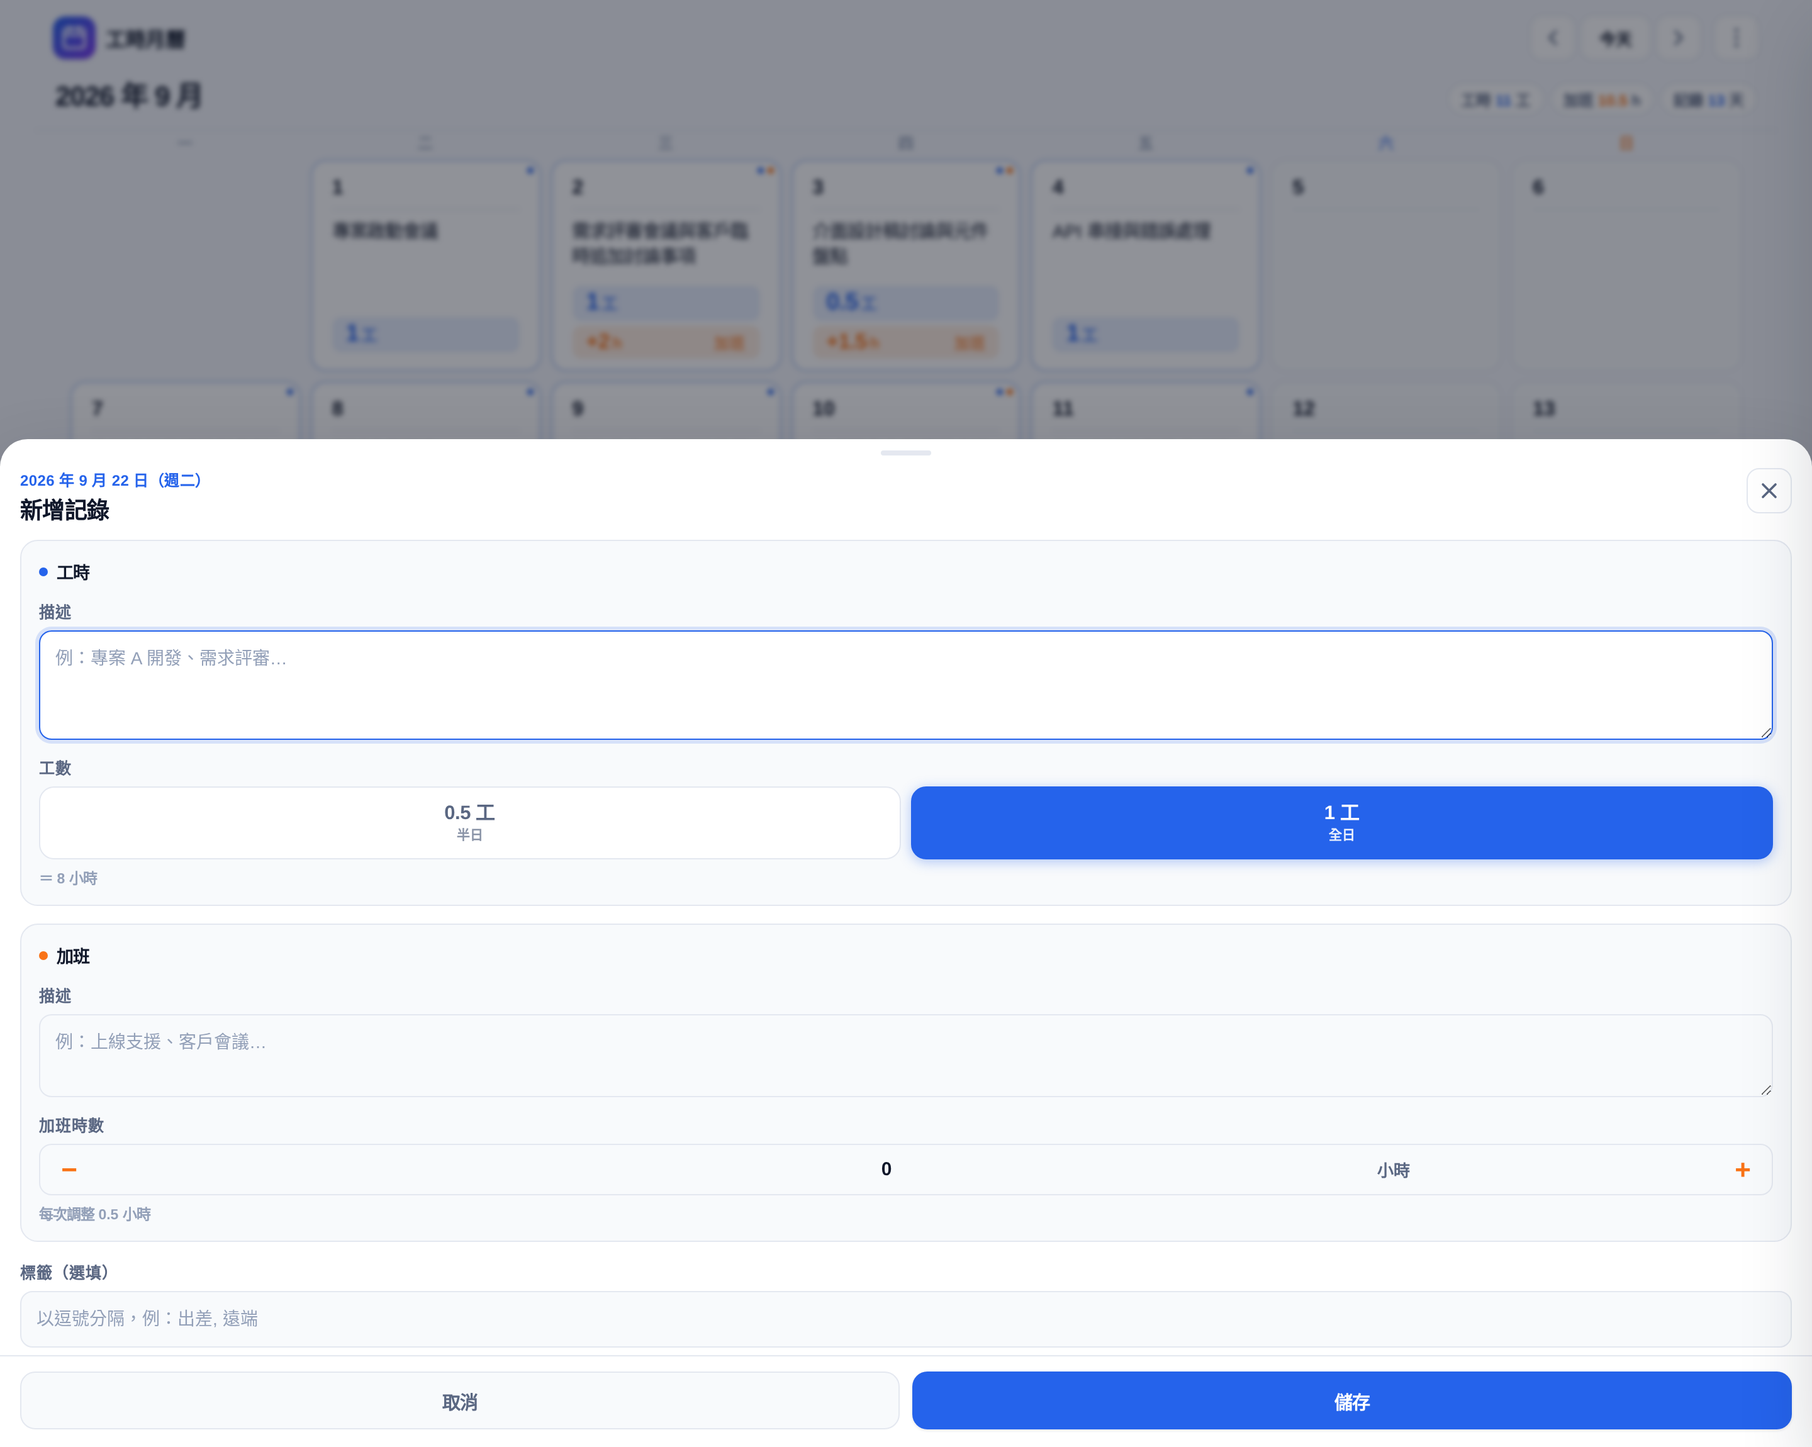
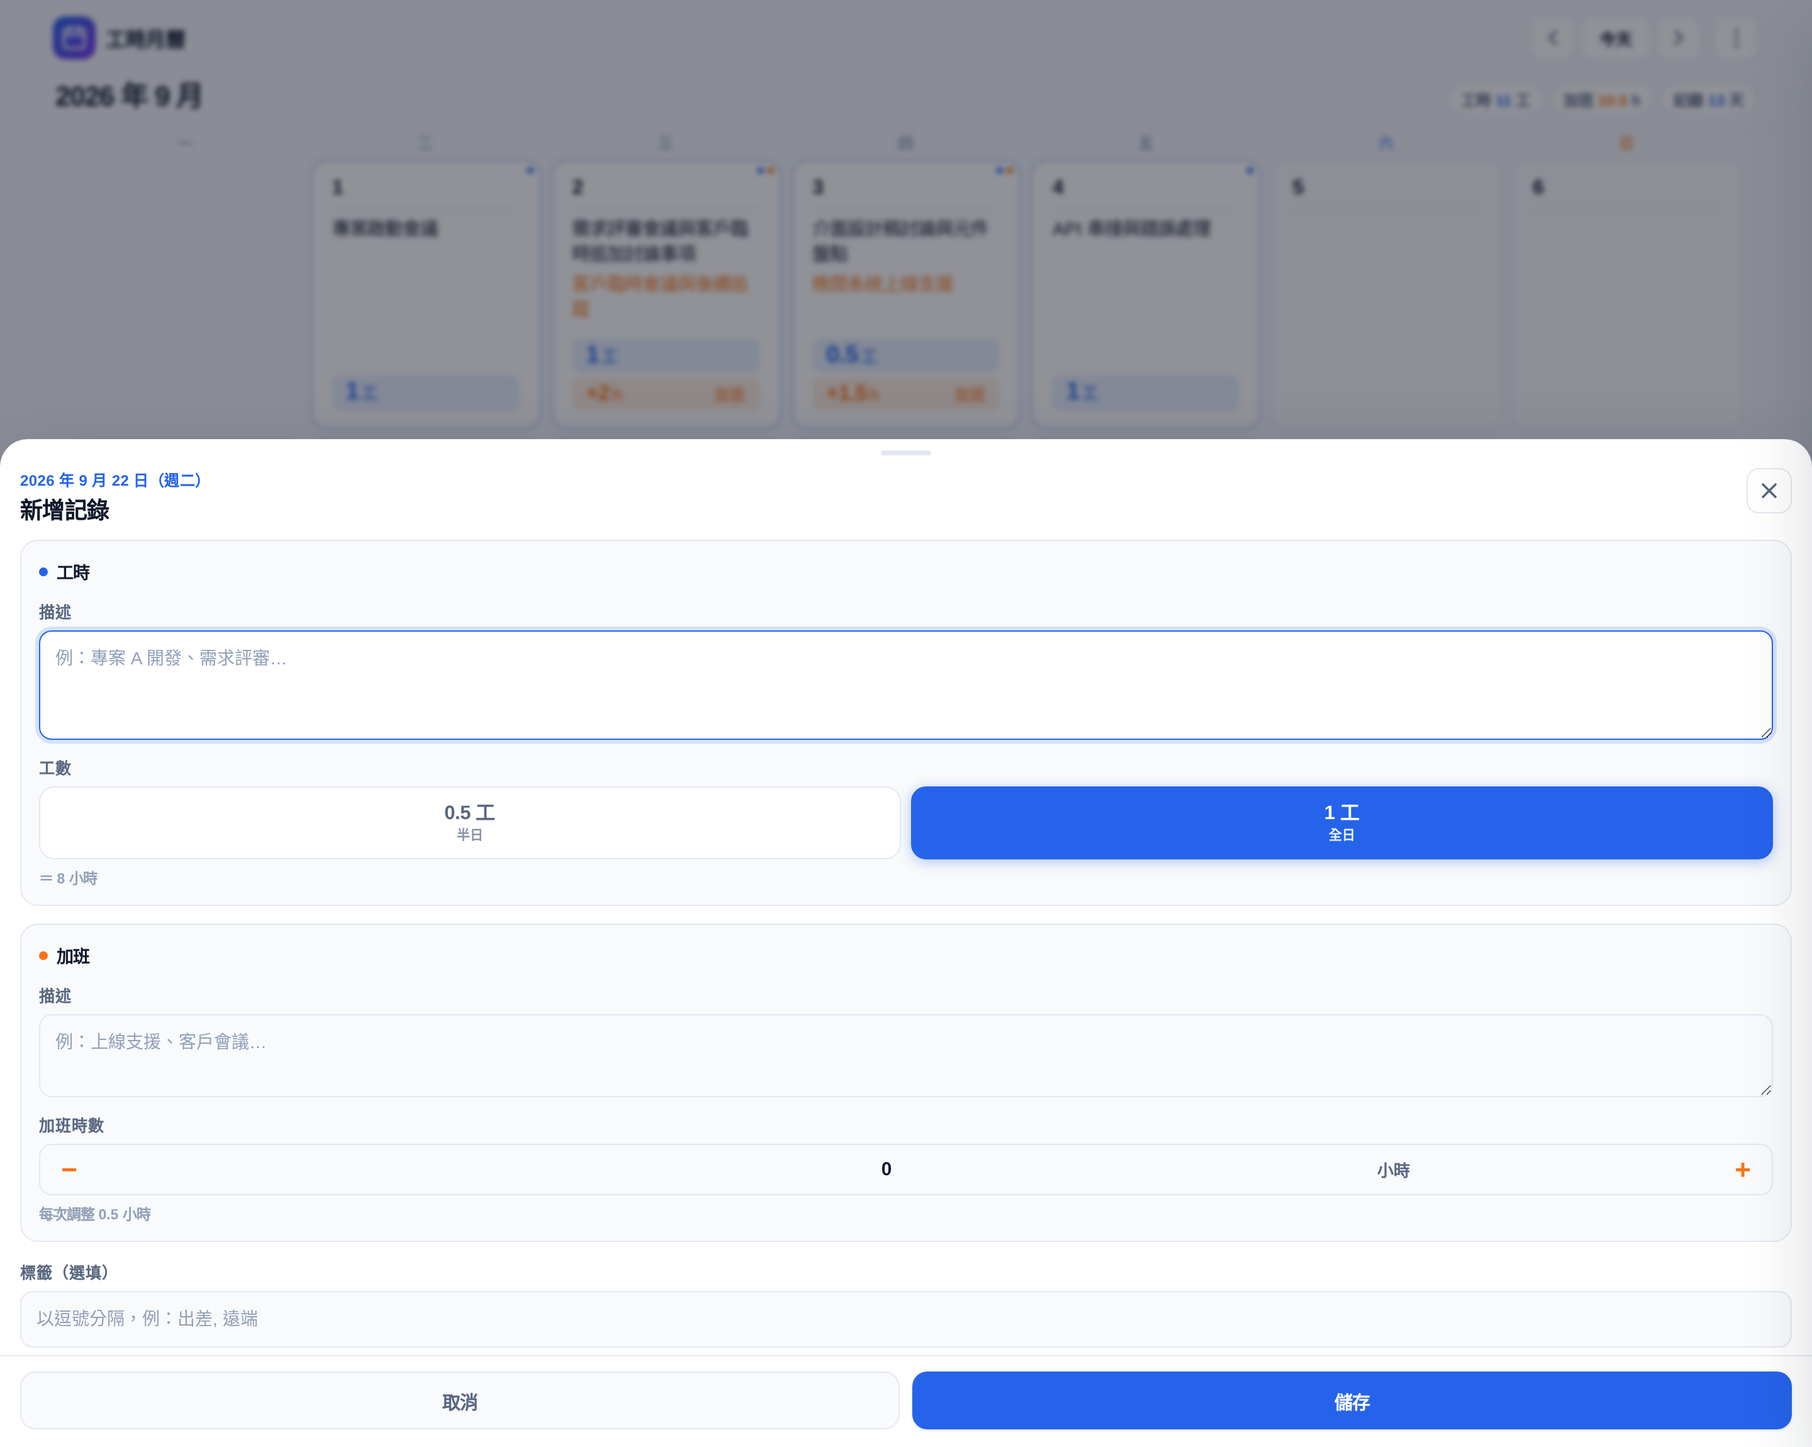
v1.9.0：工時與加班描述同時顯示在每日方格
- 修正描述渲染邏輯：原本用 else if，導致同一天有工時描述時，
  加班描述會被吃掉完全不顯示。改為兩者各自獨立判斷。
- 加班描述以橘色呈現，與黑色工時描述一眼可分
- 每個描述各自限高 2 行（手機 3 行），不再共用行數上限
- 列高下限改依「最擠情境」估算（工時 2 行 + 加班 2 行 + 兩個色塊）：
  1000px 170→200px、1400px 168→214px，修正色塊被 overflow 裁掉的問題
- 700px 區塊移除描述 min-height，避免短文也佔滿兩行高度
- 更新 README 與截圖

diff --git a/worktime-calendar.standalone.html b/worktime-calendar.standalone.html
@@ -1042,13 +1042,17 @@ textarea::placeholder, input::placeholder { color: var(--text-3); }
     color: #fff;
   }
 
-  /* 描述：放寬到 3 行，字級提升讓中文更易讀 */
+  /* 描述：手機版欄寬只有約 46px，中文每行約 4 個字。
+     現在工時與加班描述各佔一個 .day-desc，故每個限 3 行而不是共用 3 行，
+     兩者併排時才不會有一邊被整個擠掉。 */
   .day-desc {
     -webkit-line-clamp: 3;
     font-size: 9.5px;
     line-height: 1.25;
     margin-top: 0;
   }
+  /* 加班描述在手機版也維持橘色，與工時描述一眼可分 */
+  .day-desc.ot-text { color: var(--ot); opacity: 1; }
 
   /* 工數／加班：滿版底色塊，橫跨格子寬度並貼齊底部。
      負 margin 抵銷格子的左右與底部 padding，讓色塊真正頂到格線，
@@ -1116,23 +1120,28 @@ textarea::placeholder, input::placeholder { color: var(--text-3); }
 @media (min-width: 700px) {
   #app { padding: 0 14px; }
   .calendar-wrap { padding: 0 14px 14px; }
-  .calendar-grid { grid-auto-rows: minmax(104px, auto); align-content: start; }
-  .day { min-height: 104px; padding: 9px 11px 10px; }
+  /* 列高改由內容決定（auto），下限 130px 足以容納
+     兩個描述 + 兩個色塊；記錄少的月份不會被硬撐高。 */
+  .calendar-grid { grid-auto-rows: minmax(130px, auto); align-content: start; }
+  .day { min-height: 130px; padding: 9px 11px 10px; }
+  /* 每個描述各自最多 2 行。不要給 min-height——那會讓只有一行短文的
+     加班描述也佔滿兩行高度，兩個描述之間出現莫名空隙。 */
   .day-desc {
     display: block;
     -webkit-line-clamp: unset;
     -webkit-box-orient: unset;
-    flex: 0 1 auto;
-    min-height: 2.8em;
+    flex: 0 0 auto;
     max-height: 2.8em;
+    overflow: hidden;
     font-size: 12px;
     line-height: 1.4;
   }
+  .day-desc.ot-text { margin-top: -1px; }
   .day-num { font-size: 15px; }
   .day-units { font-size: 14px; line-height: 1.2; letter-spacing: -.3px; }
   .day-units .u { font-size: 11px; }
   .day-units.ot-units { font-size: 13px; }
-  .day-units-wrap { gap: 3px; padding-top: 3px; margin-top: auto; }
+  .day-units-wrap { gap: 3px; padding-top: 3px; margin-top: auto; flex: 0 0 auto; }
   .field-group { padding: 14px; }
   .weekday-row { font-size: 12px; }
   /* 平板：收入列左右留白與月曆一致，總額放大一級 */
@@ -1144,16 +1153,23 @@ textarea::placeholder, input::placeholder { color: var(--text-3); }
 @media (min-width: 1000px) {
   #app { padding: 0 20px; }
   .calendar-wrap { padding: 0 20px 20px; }
-  .calendar-grid { gap: 6px; grid-auto-rows: minmax(170px, 1fr); }
+  /* 列高下限要能容納「最擠」的格子：兩行工時描述 + 兩行加班描述
+     + 工數色塊 + 加班色塊。之前只按「單一描述」估 170px，
+     一旦同一天兩個描述都有，內容就會被 overflow: hidden 裁掉。
+     實測需要約 196px，取 200px 留一點餘裕。 */
+  .calendar-grid { gap: 6px; grid-auto-rows: minmax(200px, 1fr); }
   .weekday-row { gap: 6px; }
   .income-bar { margin-top: 12px; padding: 15px 21px; border-radius: 12px; }
   .income-label > span:first-child { font-size: 13.5px; }
   .income-formula { font-size: 12.5px; }
   .income-total { font-size: 32px; }
   .income-cur { font-size: 19px; }
-  .day { min-height: 170px; padding: 11px 14px 12px; border-radius: 12px; gap: 6px; }
+  .day { min-height: 200px; padding: 11px 14px 12px; border-radius: 12px; gap: 5px; }
   .day-num { font-size: 15px; padding-bottom: 6px; border-bottom: 1px solid var(--border); flex: 0 0 auto; }
   .day.is-today .day-num { width: 24px; height: 24px; padding-bottom: 0; border-bottom: none; }
+  /* 每個描述各自限高 2 行。兩個描述都出現時才不會把色塊擠出格子。
+     用 flex: 0 0 auto 而非 0 1 auto：描述不參與壓縮，
+     剩餘空間留給 margin-top: auto 把色塊推到底部。 */
   .day-desc {
     display: block;
     -webkit-line-clamp: unset;
@@ -1162,7 +1178,13 @@ textarea::placeholder, input::placeholder { color: var(--text-3); }
     line-height: 1.4;
     color: var(--text);
     flex: 0 0 auto;
-    max-height: 4.2em;
+    max-height: 2.8em;
+    overflow: hidden;
+  }
+  /* 加班描述用橘色，與工時描述區隔（工時用預設的 --text） */
+  .day-desc.ot-text {
+    color: var(--ot);
+    margin-top: -1px;
   }
   .day-units-wrap { gap: 4px; padding-top: 5px; flex: 0 0 auto; margin-top: auto; }
   .day-units {
@@ -1190,18 +1212,22 @@ textarea::placeholder, input::placeholder { color: var(--text-3); }
 @media (min-width: 1400px) {
   #app { padding: 0 28px; }
   .calendar-wrap { padding: 0 28px 24px; }
-  .calendar-grid { gap: 8px; grid-auto-rows: minmax(168px, 1fr); }
+  /* 同 1000px 區塊的理由：列高要容納兩個描述 + 兩個色塊。
+     字級放大到 14.5px、行高與色塊 padding 都變大後，實測最擠的格子
+     需要 211px，故取 214px 留一點餘裕。 */
+  .calendar-grid { gap: 8px; grid-auto-rows: minmax(214px, 1fr); }
   .weekday-row { gap: 8px; }
-  .day { min-height: 168px; padding: 13px 16px 14px; gap: 7px; }
+  .day { min-height: 214px; padding: 13px 16px 14px; gap: 5px; }
   .day-num { font-size: 16px; padding-bottom: 7px; }
   .day.is-today .day-num { width: 26px; height: 26px; }
   .day-desc {
     display: block;
     -webkit-line-clamp: unset;
     -webkit-box-orient: unset;
-    max-height: 7em;
+    max-height: 2.8em;
     font-size: 14.5px;
-    flex: 0 1 auto;
+    flex: 0 0 auto;
+    overflow: hidden;
   }
   .day-units { font-size: 19px; line-height: 1.15; padding: 3px 11px; }
   .day-units .u { font-size: 13px; }
@@ -1456,8 +1482,8 @@ textarea::placeholder, input::placeholder { color: var(--text-3); }
   'use strict';
 
   // 由 bump-version.sh 自動維護
-  const APP_VERSION = '1.8.1';
-  const APP_BUILD = '20260916-0808';
+  const APP_VERSION = '1.9.0';
+  const APP_BUILD = '20260916-0844';
 
   const STORE_KEY = 'worktime-calendar:v1';
   const SETTINGS_KEY = 'worktime-calendar:settings:v1';
@@ -1794,12 +1820,17 @@ textarea::placeholder, input::placeholder { color: var(--text-3); }
     if (c.isToday) classes.push('is-today');
     if (hasEntry) classes.push('has-entry');
 
-    // 描述在前
+    // 描述：工時描述與加班描述都要顯示。
+    // 兩者各自獨立判斷，不再用 else if —— 同一天同時有工時與加班描述時，
+    // 以前的寫法會讓加班描述被吃掉，只顯示工時描述。
+    const workDesc = (e.workDesc || '').trim();
+    const otDesc = (e.otDesc || '').trim();
     let descHtml = '';
-    if (e.workDesc && e.workDesc.trim()) {
-      descHtml = `<div class="day-desc">${escapeHtml(e.workDesc.trim())}</div>`;
-    } else if (e.otDesc && e.otDesc.trim()) {
-      descHtml = `<div class="day-desc ot-text">${escapeHtml(e.otDesc.trim())}</div>`;
+    if (workDesc) {
+      descHtml += `<div class="day-desc">${escapeHtml(workDesc)}</div>`;
+    }
+    if (otDesc) {
+      descHtml += `<div class="day-desc ot-text">${escapeHtml(otDesc)}</div>`;
     }
 
     // 時數在後：工數一行，加班另起一行

diff --git a/styles.css b/styles.css
@@ -1028,13 +1028,17 @@ textarea::placeholder, input::placeholder { color: var(--text-3); }
     color: #fff;
   }
 
-  /* 描述：放寬到 3 行，字級提升讓中文更易讀 */
+  /* 描述：手機版欄寬只有約 46px，中文每行約 4 個字。
+     現在工時與加班描述各佔一個 .day-desc，故每個限 3 行而不是共用 3 行，
+     兩者併排時才不會有一邊被整個擠掉。 */
   .day-desc {
     -webkit-line-clamp: 3;
     font-size: 9.5px;
     line-height: 1.25;
     margin-top: 0;
   }
+  /* 加班描述在手機版也維持橘色，與工時描述一眼可分 */
+  .day-desc.ot-text { color: var(--ot); opacity: 1; }
 
   /* 工數／加班：滿版底色塊，橫跨格子寬度並貼齊底部。
      負 margin 抵銷格子的左右與底部 padding，讓色塊真正頂到格線，
@@ -1102,23 +1106,28 @@ textarea::placeholder, input::placeholder { color: var(--text-3); }
 @media (min-width: 700px) {
   #app { padding: 0 14px; }
   .calendar-wrap { padding: 0 14px 14px; }
-  .calendar-grid { grid-auto-rows: minmax(104px, auto); align-content: start; }
-  .day { min-height: 104px; padding: 9px 11px 10px; }
+  /* 列高改由內容決定（auto），下限 130px 足以容納
+     兩個描述 + 兩個色塊；記錄少的月份不會被硬撐高。 */
+  .calendar-grid { grid-auto-rows: minmax(130px, auto); align-content: start; }
+  .day { min-height: 130px; padding: 9px 11px 10px; }
+  /* 每個描述各自最多 2 行。不要給 min-height——那會讓只有一行短文的
+     加班描述也佔滿兩行高度，兩個描述之間出現莫名空隙。 */
   .day-desc {
     display: block;
     -webkit-line-clamp: unset;
     -webkit-box-orient: unset;
-    flex: 0 1 auto;
-    min-height: 2.8em;
+    flex: 0 0 auto;
     max-height: 2.8em;
+    overflow: hidden;
     font-size: 12px;
     line-height: 1.4;
   }
+  .day-desc.ot-text { margin-top: -1px; }
   .day-num { font-size: 15px; }
   .day-units { font-size: 14px; line-height: 1.2; letter-spacing: -.3px; }
   .day-units .u { font-size: 11px; }
   .day-units.ot-units { font-size: 13px; }
-  .day-units-wrap { gap: 3px; padding-top: 3px; margin-top: auto; }
+  .day-units-wrap { gap: 3px; padding-top: 3px; margin-top: auto; flex: 0 0 auto; }
   .field-group { padding: 14px; }
   .weekday-row { font-size: 12px; }
   /* 平板：收入列左右留白與月曆一致，總額放大一級 */
@@ -1130,16 +1139,23 @@ textarea::placeholder, input::placeholder { color: var(--text-3); }
 @media (min-width: 1000px) {
   #app { padding: 0 20px; }
   .calendar-wrap { padding: 0 20px 20px; }
-  .calendar-grid { gap: 6px; grid-auto-rows: minmax(170px, 1fr); }
+  /* 列高下限要能容納「最擠」的格子：兩行工時描述 + 兩行加班描述
+     + 工數色塊 + 加班色塊。之前只按「單一描述」估 170px，
+     一旦同一天兩個描述都有，內容就會被 overflow: hidden 裁掉。
+     實測需要約 196px，取 200px 留一點餘裕。 */
+  .calendar-grid { gap: 6px; grid-auto-rows: minmax(200px, 1fr); }
   .weekday-row { gap: 6px; }
   .income-bar { margin-top: 12px; padding: 15px 21px; border-radius: 12px; }
   .income-label > span:first-child { font-size: 13.5px; }
   .income-formula { font-size: 12.5px; }
   .income-total { font-size: 32px; }
   .income-cur { font-size: 19px; }
-  .day { min-height: 170px; padding: 11px 14px 12px; border-radius: 12px; gap: 6px; }
+  .day { min-height: 200px; padding: 11px 14px 12px; border-radius: 12px; gap: 5px; }
   .day-num { font-size: 15px; padding-bottom: 6px; border-bottom: 1px solid var(--border); flex: 0 0 auto; }
   .day.is-today .day-num { width: 24px; height: 24px; padding-bottom: 0; border-bottom: none; }
+  /* 每個描述各自限高 2 行。兩個描述都出現時才不會把色塊擠出格子。
+     用 flex: 0 0 auto 而非 0 1 auto：描述不參與壓縮，
+     剩餘空間留給 margin-top: auto 把色塊推到底部。 */
   .day-desc {
     display: block;
     -webkit-line-clamp: unset;
@@ -1148,7 +1164,13 @@ textarea::placeholder, input::placeholder { color: var(--text-3); }
     line-height: 1.4;
     color: var(--text);
     flex: 0 0 auto;
-    max-height: 4.2em;
+    max-height: 2.8em;
+    overflow: hidden;
+  }
+  /* 加班描述用橘色，與工時描述區隔（工時用預設的 --text） */
+  .day-desc.ot-text {
+    color: var(--ot);
+    margin-top: -1px;
   }
   .day-units-wrap { gap: 4px; padding-top: 5px; flex: 0 0 auto; margin-top: auto; }
   .day-units {
@@ -1176,18 +1198,22 @@ textarea::placeholder, input::placeholder { color: var(--text-3); }
 @media (min-width: 1400px) {
   #app { padding: 0 28px; }
   .calendar-wrap { padding: 0 28px 24px; }
-  .calendar-grid { gap: 8px; grid-auto-rows: minmax(168px, 1fr); }
+  /* 同 1000px 區塊的理由：列高要容納兩個描述 + 兩個色塊。
+     字級放大到 14.5px、行高與色塊 padding 都變大後，實測最擠的格子
+     需要 211px，故取 214px 留一點餘裕。 */
+  .calendar-grid { gap: 8px; grid-auto-rows: minmax(214px, 1fr); }
   .weekday-row { gap: 8px; }
-  .day { min-height: 168px; padding: 13px 16px 14px; gap: 7px; }
+  .day { min-height: 214px; padding: 13px 16px 14px; gap: 5px; }
   .day-num { font-size: 16px; padding-bottom: 7px; }
   .day.is-today .day-num { width: 26px; height: 26px; }
   .day-desc {
     display: block;
     -webkit-line-clamp: unset;
     -webkit-box-orient: unset;
-    max-height: 7em;
+    max-height: 2.8em;
     font-size: 14.5px;
-    flex: 0 1 auto;
+    flex: 0 0 auto;
+    overflow: hidden;
   }
   .day-units { font-size: 19px; line-height: 1.15; padding: 3px 11px; }
   .day-units .u { font-size: 13px; }

diff --git a/app.js b/app.js
@@ -7,8 +7,8 @@
   'use strict';
 
   // 由 bump-version.sh 自動維護
-  const APP_VERSION = '1.8.1';
-  const APP_BUILD = '20260916-0808';
+  const APP_VERSION = '1.9.0';
+  const APP_BUILD = '20260916-0844';
 
   const STORE_KEY = 'worktime-calendar:v1';
   const SETTINGS_KEY = 'worktime-calendar:settings:v1';
@@ -345,12 +345,17 @@
     if (c.isToday) classes.push('is-today');
     if (hasEntry) classes.push('has-entry');
 
-    // 描述在前
+    // 描述：工時描述與加班描述都要顯示。
+    // 兩者各自獨立判斷，不再用 else if —— 同一天同時有工時與加班描述時，
+    // 以前的寫法會讓加班描述被吃掉，只顯示工時描述。
+    const workDesc = (e.workDesc || '').trim();
+    const otDesc = (e.otDesc || '').trim();
     let descHtml = '';
-    if (e.workDesc && e.workDesc.trim()) {
-      descHtml = `<div class="day-desc">${escapeHtml(e.workDesc.trim())}</div>`;
-    } else if (e.otDesc && e.otDesc.trim()) {
-      descHtml = `<div class="day-desc ot-text">${escapeHtml(e.otDesc.trim())}</div>`;
+    if (workDesc) {
+      descHtml += `<div class="day-desc">${escapeHtml(workDesc)}</div>`;
+    }
+    if (otDesc) {
+      descHtml += `<div class="day-desc ot-text">${escapeHtml(otDesc)}</div>`;
     }
 
     // 時數在後：工數一行，加班另起一行

diff --git a/sw.js b/sw.js
@@ -8,7 +8,7 @@
  *   4. controllerchange 觸發，頁面重新載入即為新版
  * ========================================================= */
 
-const CACHE = 'worktime-calendar-v1.8.1';
+const CACHE = 'worktime-calendar-v1.9.0';
 const PRECACHE = [
   './',
   './index.html',

diff --git a/README.md b/README.md
@@ -22,6 +22,7 @@
 | **加班以小時計** | 加班時數以 **0.5 小時** 為單位遞進 |
 | **工時與加班分行** | 月曆上工數與加班時數各佔一行，不並排 |
 | **描述優先** | 格子內先顯示描述，時數在下方 |
+| **雙描述同時顯示** | 同一天可同時顯示**工時描述**（黑字）與**加班描述**（橘字），加班描述不會被工時描述蓋掉 |
 | **滿版版面** | 版面用滿螢幕左右兩側（桌機僅留 20–28px 邊距），格子越寬工數／加班色塊越大 |
 | **月度統計** | 月工數、月加班時數、記錄天數 |
 | **收入總計** | 設定日薪與加班時薪後，月曆下方自動計算本月收入（工數 × 日薪 ＋ 加班時數 × 加班時薪） |
@@ -121,15 +122,23 @@ npx http-server -p 8099
 卡片的邊框、圓角與間隙會吃掉約 20% 寬度。改用細格線分隔後，390px 螢幕上每格內容寬度由
 38px 提升至 46px，描述可顯示 3 行。
 
-| 斷點 | 風格 | 左右邊距 | 格子寬（1600px 時） | 工數字級 | 描述行數 |
-| --- | --- | --- | --- | --- | --- |
-| ≤ 480px | **網格線** | 10px | 52px | 9.5px | 3 |
-| ≥ 700px | 卡片 | 28px | 89px | 14px | 2 |
-| ≥ 1000px | 卡片 | 40px | 126px | 18px | 2–3 |
-| ≥ 1400px | 卡片 | 56px | 177px | 19px | 2 |
+| 斷點 | 風格 | 左右邊距 | 格子寬（1600px 時） | 工數字級 | 每則描述行數 | 列高下限 |
+| --- | --- | --- | --- | --- | --- | --- |
+| ≤ 480px | **網格線** | 10px | 52px | 9.5px | 3 | 由內容決定 |
+| ≥ 700px | 卡片 | 28px | 89px | 14px | 2 | 130px（由內容決定） |
+| ≥ 1000px | 卡片 | 40px | 126px | 18px | 2 | 200px |
+| ≥ 1400px | 卡片 | 56px | 177px | 19px | 2 | 214px |
 
 **工數與加班色塊**滿版橫跨格子寬度、貼齊底部：手機版為連續的底色資料列，桌機版另有
 `space-between` 佈局（左側數字、右側「加班」標籤）。
+
+**列高的估算基準**：一個格子最擠的情況是「工時描述 2 行 + 加班描述 2 行 + 工數色塊 + 加班色塊」。
+1000px 以上用固定列高（`minmax(Npx, 1fr)`），N 必須放得下這個最擠情境，否則
+`.day` 的 `overflow: hidden` 會把下面的色塊裁掉。實測 1000px 需 196px、1400px 需 211px，
+故分別取 200px 與 214px。
+
+> 改動字級、行高或色塊 padding 時，**記得重新量測這個最擠情境**，
+> 否則很容易又出現「描述多一點就被切掉」的問題。
 
 > **窄螢幕（≤ 480px）** 空間不足，隱藏「加班」文字標籤，改以橘色色塊本身辨識。
 
